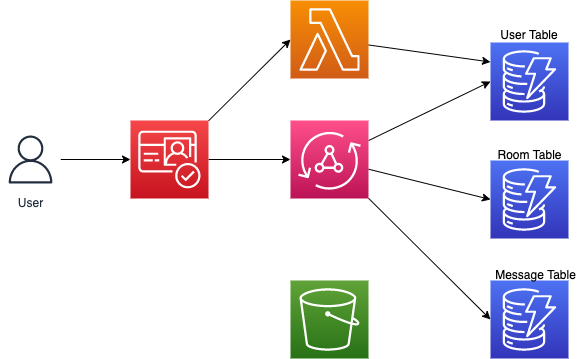
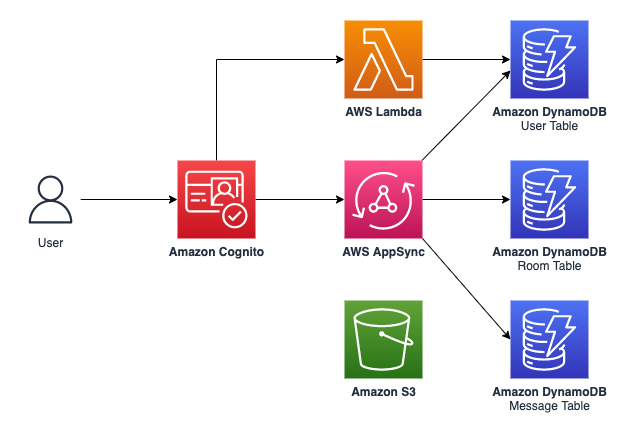
fix: diagram background and readme typos

diff --git a/README.md b/README.md
@@ -1,4 +1,4 @@
-## AppSync Chat App CDK Backend
+## AWS AppSync Chat App CDK Backend
 
 This repo is part of an official AWS Blog post that showcases how to create a serverless, real-time backend that integrates with a frontend application.
 
@@ -6,41 +6,41 @@ This repo is part of an official AWS Blog post that showcases how to create a se
 
 ![service diagram](./diagram.png)
 
-### Cognito
+### Amazon Cognito
 
 The `lib/authStack.ts` file creates the following services
 
-- Cognito Userpool
-- Cognito Userpool Group (if specified)
-- Cognito Identity Pool
+- Cognito user pool
+- Cognito user pool group (if specified)
+- Cognito identity pool
 
 🗒 The identity pool helps in providing IAM permission access to both authenticated and unauthenticated users as well as AWS services such as Amazon S3.
 
-### Lambda
+### AWS Lambda
 
 The `lib/functions` directory contains a `postConfirmationTrigger` folder. The Lambda function in this folder adds a user to DynamoDB after a user signs up through our Cognito service.
 
-### S3
+### Amazon Simple Storage Service (Amazon S3)
 
-The `lib/fileStorage.ts` file creates an Amazon S3 bucket and comes configured with managed polcies that are in line with what the [Amplify Storage](https://docs.amplify.aws/cli/storage/import/#configuring-iam-role-to-use-amplify-recommended-policies) library uses as acceptable defaults.
+The `lib/fileStorage.ts` file creates an Amazon S3 bucket and comes configured with managed polices that are in line with what the [Amplify Storage](https://docs.amplify.aws/cli/storage/import/#configuring-iam-role-to-use-amplify-recommended-policies) library uses as acceptable defaults.
 
-### AppSync API
+### AWS AppSync API
 
-The`lib/apiStack.ts` file creates an AppSync API that is based on a `Todo` application.
+The`lib/apiStack.ts` file creates an AWS AppSync API that is based on a `Todo` application.
 
 Note that this stack comes preconfigured with the following:
 
 - A sample graphql schema
-- Userpool authorization
+- User pool authorization
 - API Key authorization
 - IAM authorization
 - DynamoDB as a datasource
 
-In addition, this package makes use of the `@aws-cdk/aws-appsync-alpha` [npm package](https://www.npmjs.com/package/@aws-cdk/aws-appsync-alpha) for easiliy creating the request and response mapping templates.
+In addition, this package makes use of the `@aws-cdk/aws-appsync-alpha` [npm package](https://www.npmjs.com/package/@aws-cdk/aws-appsync-alpha) for easily creating the request and response mapping templates.
 
-### DynamoDB API
+### Amazon DynamoDB API
 
-The `lib/databaseStack.ts` file creates a single DynamoDB table that is used as a datasource for the AppSync API above.
+The `lib/databaseStack.ts` file creates a single DynamoDB table that is used as a datasource for the AWS AppSync API above.
 
 ## Integrating with a frontend
 
